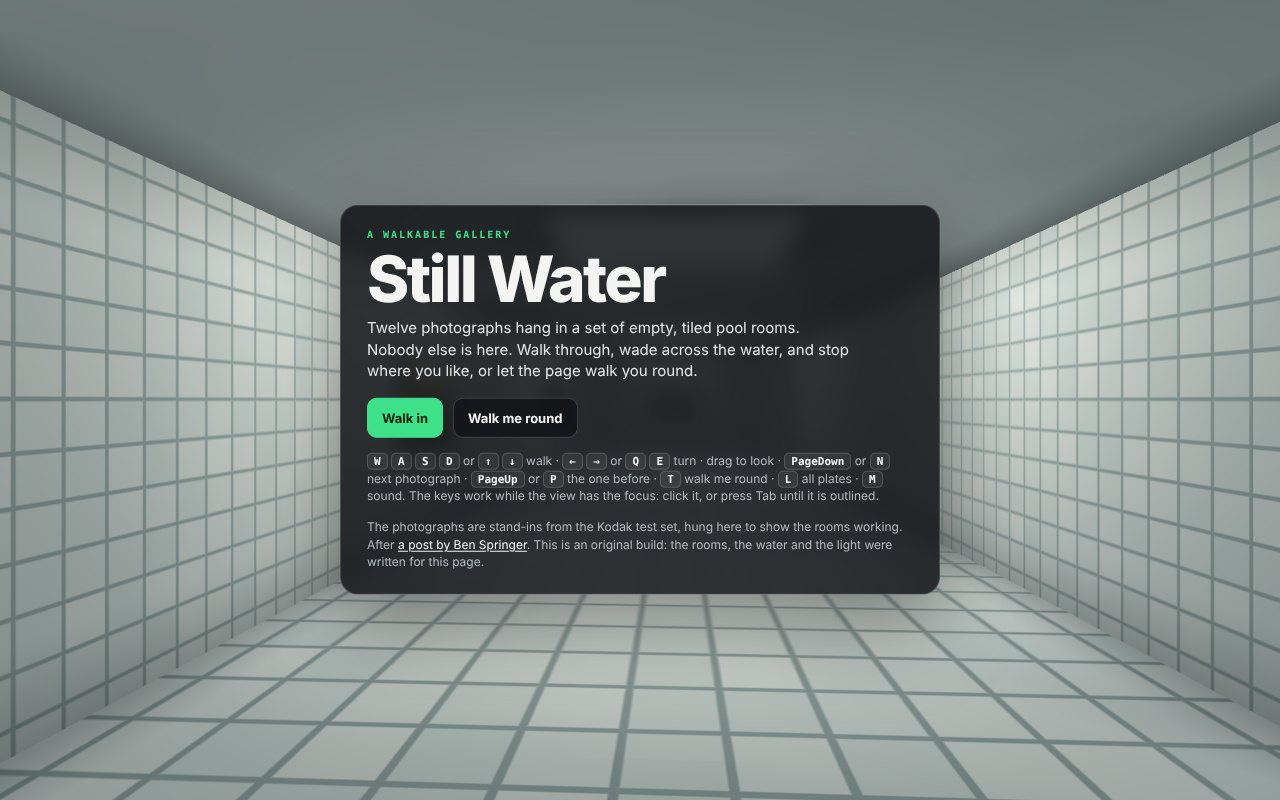
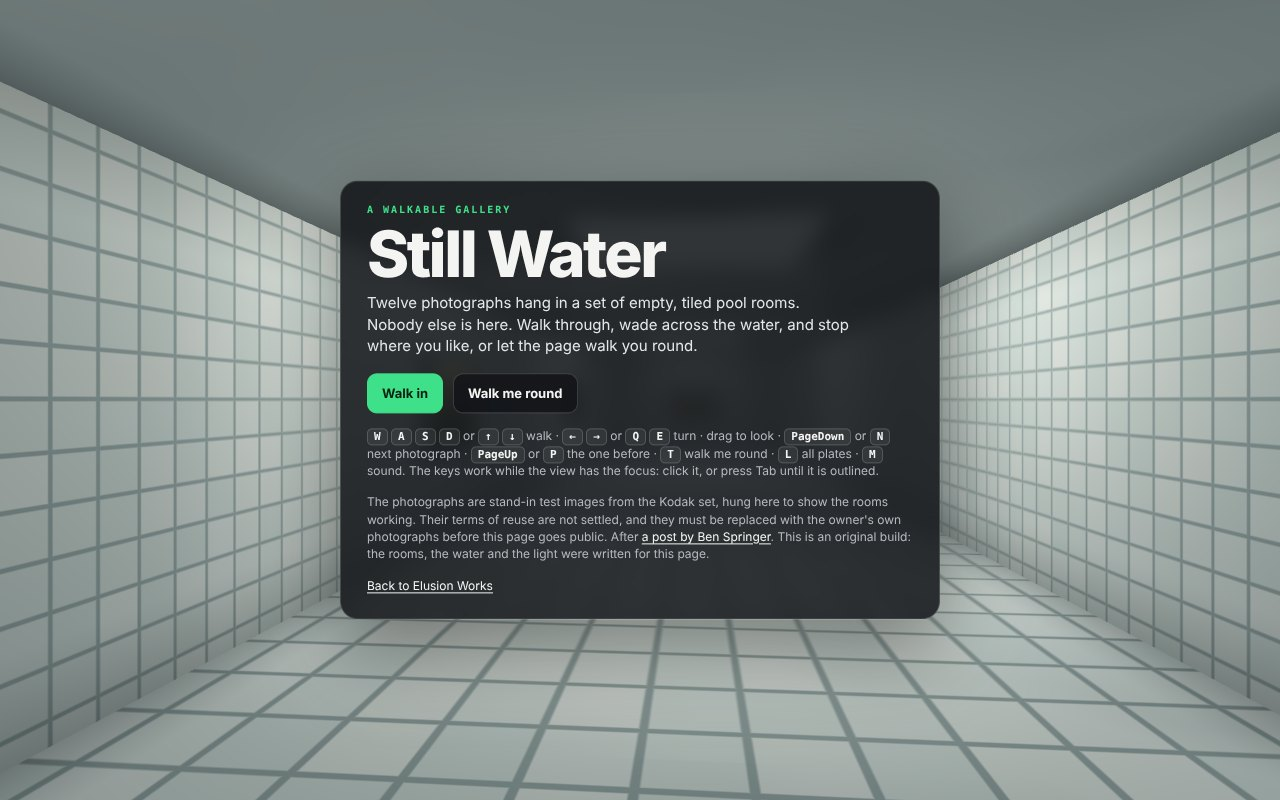
Still Water: act on the outside review
- Plain gallery in ordinary HTML (twelve photographs, full captions,
  link back to the site) when WebGL fails, the app script or Three.js
  fails to load, or scripts are off. Tested in all four cases.
- The walk round and gliding wait while the list of plates is open.
- Water shader smoothstep edges put in order (undefined in GLSL);
  grout smoothstep guarded against equal edges.
- Return link on the start card and in the list; the list repeats how
  to move; sharing tags added, noindex kept.
- The photographs are called stand-in test images whose reuse terms are
  unsettled and which must be replaced before merge, on the page and in
  the files. Permission is left for the owner to decide.
- Tests: plain gallery matches photos.js, rights wording, smoothstep
  edges, tour behind the list, photograph corners on screen.

Claude-Session: https://claude.ai/code/session_013B6jEDQfd86RBiChYmYX6U

Changed region(s): [[0.0, 0.0938, 1.0, 1.0]]

diff --git a/demos/still-water/index.html b/demos/still-water/index.html
@@ -6,6 +6,12 @@
 <title>Still Water: a walkable gallery in empty pool rooms</title>
 <meta name="description" content="Twelve photographs hang in a set of quiet, tiled pool rooms. Walk through them in your browser, wade across the water, or let the page walk you round.">
 <meta name="theme-color" content="#111315">
+<meta property="og:title" content="Still Water: a walkable gallery in empty pool rooms">
+<meta property="og:description" content="Twelve photographs hang in a set of quiet, tiled pool rooms. Walk through them in your browser, wade across the water, or let the page walk you round.">
+<meta property="og:type" content="website">
+<meta property="og:image" content="https://elusionworks.com/demos/still-water/thumbnail.png">
+<meta property="og:image:alt" content="A pool hall with white tiled walls, a pillar standing in pale blue water and two framed photographs on the far walls.">
+<meta name="twitter:card" content="summary_large_image">
 <link rel="icon" href="../../assets/favicon.svg" type="image/svg+xml">
 <!-- Unlisted until release is approved: remove the next line, then add the gallery card and sitemap entry. -->
 <meta name="robots" content="noindex">
@@ -56,6 +62,7 @@
   .keys kbd { font:600 11px var(--mono); padding:1px 6px; border-radius:5px; border:1px solid var(--line); background:rgba(255,255,255,.06); color:var(--ink); }
   dialog { color:var(--ink); border:1px solid var(--line); border-radius:18px; padding:20px 22px; width:min(94vw,760px); max-height:min(90vh,680px); background:#15181b; }
   dialog::backdrop { background:rgba(8,10,12,.6); }
+  dialog h3 { margin:20px 0 0; font-size:15px; } dialog .note b { color:var(--ink); }
   .dialog-head { display:flex; align-items:center; justify-content:space-between; gap:12px; margin-bottom:12px; } .dialog-head h2 { margin:0; }
   #plates { list-style:none; margin:0; padding:0; display:grid; grid-template-columns:repeat(auto-fill,minmax(150px,1fr)); gap:10px; }
   #plates button { display:block; width:100%; padding:0; border-radius:10px; border:1px solid var(--line); background:#0c0e10; overflow:hidden; text-align:left; }
@@ -64,7 +71,17 @@
   #plates small { display:block; padding:4px 9px 9px; font-size:12px; line-height:1.3; color:#d7dce0; white-space:normal; }
   #plates .lost { display:grid; place-items:center; height:104px; padding:8px; font-size:12px; text-align:center; color:var(--muted); background:#22262a; }
   #plates button[aria-current="true"] { border-color:var(--accent); } #plates button[aria-current="true"] span { color:var(--accent); }
-  #fallback { position:fixed; inset:0; display:none; place-items:center; padding:28px; text-align:center; background:var(--bg); z-index:9; } #fallback p { max-width:460px; color:#d7dce0; }
+  /* The plain gallery, for when the rooms cannot start */
+  #fallback { display:none; max-width:960px; margin:0 auto; padding:28px max(16px,env(safe-area-inset-left)) 40px; }
+  .flat, .flat body { height:auto; overflow:auto; }
+  .flat #fallback { display:block; }
+  .flat #stage, .flat .hud, .flat #start, .flat #all { display:none !important; }
+  #fallback a { color:var(--ink); text-decoration:underline; text-underline-offset:2px; }
+  #fallback .eyebrow a { color:var(--accent); text-decoration:none; } #fallback .eyebrow a:hover { text-decoration:underline; }
+  #flat { list-style:none; margin:22px 0 0; padding:0; display:grid; grid-template-columns:repeat(auto-fill,minmax(min(100%,280px),1fr)); gap:22px; }
+  #flat figure { margin:0; }
+  #flat img { display:block; max-width:100%; height:auto; max-height:70vh; background:#22262a; border:1px solid var(--line); }
+  #flat figcaption { margin-top:8px; font-size:14px; color:#d7dce0; } #flat figcaption b { display:block; margin-bottom:2px; font:600 10px/1.4 var(--mono); letter-spacing:.18em; text-transform:uppercase; color:var(--accent); }
 
   @media (max-width:760px) {
     #map { width:104px; } .toolrow { max-width:150px; } .toolrow .btn { min-height:34px; padding:0 9px; }
@@ -74,6 +91,8 @@
   @media (max-height:480px) { .card { padding:14px 18px; } h1 { font-size:32px; margin:6px 0; } .lede { margin-bottom:10px; font-size:13px; } .card .note { display:none; } #plate { width:min(360px,56vw); } #plate-t { min-height:0; margin:5px 0 7px; font-size:12px; white-space:nowrap; overflow:hidden; text-overflow:ellipsis; } #map { width:92px; } }
   @media (prefers-reduced-motion:reduce) { * { transition:none !important; } }
 </style>
+<!-- With scripts off the rooms cannot open: show the plain gallery. After the main styles so that it wins. -->
+<noscript><style>html, body { height:auto; overflow:auto; } #fallback { display:block; } #stage, .hud, #start, #all { display:none !important; }</style></noscript>
 <script type="importmap">
 { "imports": { "three": "../_shared/three-r160/build/three.module.js" } }
 </script>
@@ -114,15 +133,49 @@
   </div>
   <p class="note keys"><kbd>W</kbd> <kbd>A</kbd> <kbd>S</kbd> <kbd>D</kbd> or <kbd>↑</kbd> <kbd>↓</kbd> walk · <kbd>←</kbd> <kbd>→</kbd> or <kbd>Q</kbd> <kbd>E</kbd> turn · drag to look · <kbd>PageDown</kbd> or <kbd>N</kbd> next photograph · <kbd>PageUp</kbd> or <kbd>P</kbd> the one before · <kbd>T</kbd> walk me round · <kbd>L</kbd> all plates · <kbd>M</kbd> sound. The keys work while the view has the focus: click it, or press Tab until it is outlined.</p>
   <p class="note" id="touch-note" hidden>Drag on the left of the screen to walk. Drag on the right to look round.</p>
-  <p class="note">The photographs are stand-ins from the Kodak test set, hung here to show the rooms working. After <a href="https://x.com/Ben__Springer/status/2119915615351693483" rel="noopener">a post by Ben Springer</a>. This is an original build: the rooms, the water and the light were written for this page.</p>
+  <p class="note">The photographs are stand-in test images from the Kodak set, hung here to show the rooms working. Their terms of reuse are not settled, and they must be replaced with the owner's own photographs before this page goes public. After <a href="https://x.com/Ben__Springer/status/2119915615351693483" rel="noopener">a post by Ben Springer</a>. This is an original build: the rooms, the water and the light were written for this page.</p>
+  <p class="note"><a href="../../">Back to Elusion Works</a></p>
 </section>
 
 <dialog id="all" aria-labelledby="all-h">
   <div class="dialog-head"><h2 id="all-h">All twelve plates</h2><button class="btn" id="all-close" type="button">Close</button></div>
   <ul id="plates"></ul>
+  <h3>How to move</h3>
+  <p class="note">With the view in focus: <b>W A S D</b> or the up and down arrows walk; the left and right arrows or <b>Q</b> and <b>E</b> turn; <b>PageDown</b> or <b>N</b> goes to the next photograph and <b>PageUp</b> or <b>P</b> to the one before; <b>T</b> walks you round; <b>L</b> opens this list; <b>M</b> is sound; <b>Escape</b> stops a walk. With a mouse, drag to look. On a phone, drag on the left of the screen to walk and on the right to look round. Next, Previous and Walk me round do the same without keys.</p>
+  <p class="note">The photographs are stand-in test images whose terms of reuse are not settled. <a href="../../">Back to Elusion Works</a></p>
 </dialog>
 
-<div id="fallback" role="alert"><p><strong>This gallery needs WebGL.</strong><br>Your browser or device could not start 3D graphics. Try a recent version of Edge, Chrome, Firefox or Safari with hardware acceleration switched on.</p></div>
-<script type="module" src="js/app.js"></script>
+<!-- The plain gallery: shown instead of the rooms when 3D graphics cannot start, the script does not load, or scripts are off.
+     The words must match js/photos.js; world.test.mjs checks that they do. -->
+<main id="fallback">
+  <p class="eyebrow"><a href="../../">Elusion Works</a></p>
+  <h1 id="flat-h">Still Water</h1>
+  <p class="lede" id="fallback-why" role="status">The 3D rooms could not be opened here, so the twelve photographs are shown below as a plain list.</p>
+  <p class="note">Each photograph hangs in the rooms with a numbered plate and no title. These are stand-in test images from the Kodak set; their terms of reuse are not settled, and they must be replaced with the owner's own photographs before this page goes public.</p>
+  <ol id="flat">
+    <li><figure><img src="img/k16.jpg" alt="" loading="lazy" width="768" height="512"><figcaption><b>Plate 01</b> A low island lined with palm trees across still water, with tall white clouds above.</figcaption></figure></li>
+    <li><figure><img src="img/k06.jpg" alt="" loading="lazy" width="768" height="512"><figcaption><b>Plate 02</b> A small wooden sailing boat at anchor on calm turquoise water, a low shoreline behind it.</figcaption></figure></li>
+    <li><figure><img src="img/k11.jpg" alt="" loading="lazy" width="768" height="512"><figcaption><b>Plate 03</b> A weathered boat moored beside a rusting, broken jetty on green water.</figcaption></figure></li>
+    <li><figure><img src="img/k21.jpg" alt="" loading="lazy" width="768" height="512"><figcaption><b>Plate 04</b> A white lighthouse and red-roofed houses on a rocky shore, waves breaking below.</figcaption></figure></li>
+    <li><figure><img src="img/k19.jpg" alt="" loading="lazy" width="512" height="768"><figcaption><b>Plate 05</b> A white lighthouse behind a white picket fence, under a blue sky with white cloud.</figcaption></figure></li>
+    <li><figure><img src="img/k13.jpg" alt="" loading="lazy" width="768" height="512"><figcaption><b>Plate 06</b> A stony mountain stream running through green forest, with snow on the peaks beyond.</figcaption></figure></li>
+    <li><figure><img src="img/k09.jpg" alt="" loading="lazy" width="512" height="768"><figcaption><b>Plate 07</b> Racing dinghies under striped spinnaker sails on grey water.</figcaption></figure></li>
+    <li><figure><img src="img/k22.jpg" alt="" loading="lazy" width="768" height="512"><figcaption><b>Plate 08</b> A red barn reflected in a pond, among trees in spring leaf.</figcaption></figure></li>
+    <li><figure><img src="img/k23.jpg" alt="" loading="lazy" width="768" height="512"><figcaption><b>Plate 09</b> Two macaws side by side, one blue and yellow, one red, against green leaves.</figcaption></figure></li>
+    <li><figure><img src="img/k07.jpg" alt="" loading="lazy" width="768" height="512"><figcaption><b>Plate 10</b> An arched, shuttered window in a pale wall, with pink and red hibiscus flowers in front.</figcaption></figure></li>
+    <li><figure><img src="img/k02.jpg" alt="" loading="lazy" width="768" height="512"><figcaption><b>Plate 11</b> A close view of a red painted door with an iron bolt and a round white knob.</figcaption></figure></li>
+    <li><figure><img src="img/k01.jpg" alt="" loading="lazy" width="768" height="512"><figcaption><b>Plate 12</b> The front of a stone building with red shutters and a red door.</figcaption></figure></li>
+  </ol>
+  <p class="note"><a href="../../">Back to Elusion Works</a></p>
+</main>
+<script>
+// If the rooms never start (the script failed to load, or stopped part way), show the plain gallery instead of a dead start card.
+(function () {
+  function flat(why) { var d = document.documentElement; if (window.stillWater || d.classList.contains('flat')) return; d.classList.add('flat'); if (why) document.getElementById('fallback-why').textContent = why; }
+  window.stillWaterFlat = flat;
+  addEventListener('load', function () { flat('The script that draws the rooms did not load, so the twelve photographs are shown below as a plain list.'); });
+})();
+</script>
+<script type="module" src="js/app.js" onerror="stillWaterFlat('The script that draws the rooms did not load, so the twelve photographs are shown below as a plain list.')"></script>
 </body>
 </html>

diff --git a/demos/still-water/js/app.js b/demos/still-water/js/app.js
@@ -14,7 +14,7 @@ const HAZE = [0.83, 0.91, 0.91]; // the pale air the far rooms fade into
 
 let renderer;
 try { renderer = new THREE.WebGLRenderer({ canvas: $('stage'), antialias: true, powerPreference: 'high-performance' }); }
-catch (err) { $('fallback').style.display = 'grid'; $('start').hidden = true; throw err; }
+catch (err) { window.stillWaterFlat('This browser could not start 3D graphics (WebGL), so the twelve photographs are shown below as a plain list. To walk the rooms, try a recent Edge, Chrome, Firefox or Safari with hardware acceleration switched on.'); throw err; } // the plain gallery in index.html takes over
 renderer.setPixelRatio(Math.min(devicePixelRatio || 1, small ? 1.5 : 2));
 const scene = new THREE.Scene(); scene.background = new THREE.Color().setRGB(HAZE[0], HAZE[1], HAZE[2], THREE.SRGBColorSpace);
 const camera = new THREE.PerspectiveCamera(62, 1, 0.08, 120); camera.rotation.order = 'YXZ';
@@ -41,7 +41,7 @@ const CAUSTIC = /* glsl */`
         else {
           vec3 base = vec3(0.90, 0.93, 0.92); float gloss = 0.0;
           if (vKind < 2.5) { float size = vKind > 1.5 ? 0.125 : (vKind > 0.5 ? 0.5 : 0.25); vec2 t = uv / size + 0.5, cell = abs(fract(t) - 0.5); // pool mosaic, floor slabs, wall tiles
-            float aa = max(fwidth(t.x), fwidth(t.y)), line = smoothstep(0.455 - aa, 0.455 + aa, max(cell.x, cell.y)) * clamp(1.0 - aa * 1.5, 0.0, 1.0); // grout, fading out where tiles are too small to see
+            float aa = max(max(fwidth(t.x), fwidth(t.y)), 1e-4), line = smoothstep(0.455 - aa, 0.455 + aa, max(cell.x, cell.y)) * clamp(1.0 - aa * 1.5, 0.0, 1.0); // grout, fading out where tiles are too small to see
             float v = hash(floor(t));
             vec3 tile = vKind > 1.5 ? mix(vec3(0.40, 0.76, 0.79), vec3(0.56, 0.87, 0.87), v) : mix(vec3(0.90, 0.94, 0.93), vec3(0.97, 0.98, 0.97), v);
             vec3 grout = vKind > 1.5 ? vec3(0.28, 0.58, 0.63) : vec3(0.66, 0.73, 0.73);
@@ -69,7 +69,7 @@ const CAUSTIC = /* glsl */`
         vec2 p = vW.xz; float e = 0.05; vec3 n = normalize(vec3(height(p - vec2(e, 0.0)) - height(p + vec2(e, 0.0)), 2.0 * e, height(p - vec2(0.0, e)) - height(p + vec2(0.0, e))));
         vec3 toEye = cameraPosition - vW; float dist = length(toEye); vec3 V = toEye / dist, R = reflect(-V, n);
         float F = 0.03 + 0.97 * pow(1.0 - max(dot(n, V), 0.0), 5.0), glow = 0.0;
-        for (int i = 0; i < 12; i++) { if (i >= uSkyN) break; float t = (uSky[i].y - vW.y) / max(R.y, 0.05); vec2 hit = vW.xz + R.xz * t; vec2 d = abs(hit - uSky[i].xz); glow += smoothstep(1.25, 0.85, max(d.x, d.y)); } // the skylights, mirrored
+        for (int i = 0; i < 12; i++) { if (i >= uSkyN) break; float t = (uSky[i].y - vW.y) / max(R.y, 0.05); vec2 hit = vW.xz + R.xz * t; vec2 d = abs(hit - uSky[i].xz); glow += 1.0 - smoothstep(0.85, 1.25, max(d.x, d.y)); } // the skylights, mirrored
         vec3 mirror = mix(vec3(0.70, 0.82, 0.82), vec3(1.0, 0.99, 0.95), clamp(glow, 0.0, 1.0)), deep = vec3(0.13, 0.50, 0.55);
         vec3 col = mix(deep, mirror, F); float alpha = mix(0.38, 0.97, F);
         col = mix(col, uHaze, 1.0 - exp(-dist * dist * 0.0009));
@@ -130,6 +130,7 @@ function input() { const k = c => (keys.has(c) ? 1 : 0); return { forward: k('Ke
 function advance(dt) {
   if (!still) uTime.value += dt;
   if (mode !== 'walk') return;
+  if ($('all').open) { audio.move(0, me.wade, dt); return; } // behind the list of plates nothing moves: no walking, no gliding, and the walk round waits
   const inp = input(), hands = inp.forward || inp.strafe || inp.turn || look.id !== null, x0 = me.x, z0 = me.z;
   if (hands && (path || touring)) { path = null; if (touring) setTour(false); } // touch the controls and you are walking yourself again
   if (path) { if (follow(world, me, path, pathYaw, dt)) arrive(); } else walk(world, me, inp, dt);
@@ -206,5 +207,9 @@ window.stillWater = { // for the automated checks
   ready: ready.then(() => true),
   state: () => ({ mode, x: me.x, z: me.z, y: me.y, yaw: me.yaw, pitch: me.pitch, wade: me.wade, plate: shown ? shown.plate : 0, words: document.getElementById('plate-t').textContent, said: document.getElementById('announce').textContent, target, gliding: !!path, touring, stops, still, soundOn, time: uTime.value, loaded: loaded.ok, failed: loaded.failed, clear: clear(world, me.x, me.z), calls: renderer.info.render.calls, triangles: renderer.info.render.triangles, fov: camera.fov }),
   plates: () => hung.map(p => ({ plate: p.plate, x: p.x, z: p.z, w: p.w, h: p.h, alt: p.alt, view: viewPoint(world, world.photos[p.plate - 1], viewDist(p)) })),
+  // Where the corners of a photograph fall on the screen, in CSS pixels, seen from where you stand.
+  corners(i) { const p = hung[i], rx = p.nz, rz = -p.nx, cx = p.x + p.nx * 0.06, cz = p.z + p.nz * 0.06; camera.position.set(me.x, me.y, me.z); camera.rotation.set(me.pitch, me.yaw, 0); camera.updateMatrixWorld();
+    const pts = [[-1, -1], [1, -1], [1, 1], [-1, 1]].map(([a, b]) => { probe.set(cx + rx * a * p.w / 2, p.y + b * p.h / 2, cz + rz * a * p.w / 2).project(camera); return [(probe.x + 1) / 2 * innerWidth, (1 - probe.y) / 2 * innerHeight, probe.z]; });
+    return { left: Math.min(...pts.map(q => q[0])), right: Math.max(...pts.map(q => q[0])), top: Math.min(...pts.map(q => q[1])), bottom: Math.max(...pts.map(q => q[1])), ahead: pts.every(q => q[2] < 1) }; },
   enter, goTo, place(x, z, yaw, pitch = 0) { stand({ x, z, yaw }); me.pitch = pitch; }, fast(n) { for (let i = 0; i < n; i++) advance(1 / 60); draw(); return n; },
 };

diff --git a/demos/still-water/js/photos.js b/demos/still-water/js/photos.js
@@ -1,4 +1,6 @@
-// The photographs on the walls, in the order of the walk round. To hang your own, replace the files in img/ and the words here.
+// The photographs on the walls, in the order of the walk round. To hang your own, replace the files in img/ and the words here,
+// and the same words in the plain gallery at the foot of index.html (world.test.mjs fails until the two agree).
+// These twelve are stand-in Kodak test images whose terms of reuse are not settled: they must be replaced before the page goes public.
 // Each has a plain description for anyone who cannot see it. No titles: the plates carry numbers only.
 export const PHOTOS = [
   { file: 'img/k16.jpg', alt: 'A low island lined with palm trees across still water, with tall white clouds above.' },

diff --git a/demos/still-water/REVIEW.md b/demos/still-water/REVIEW.md
@@ -5,7 +5,7 @@ Built 17 November 2026 by Claude Fable 5.2 in a Claude Code cloud session. Revie
 
 ## Verdict
 
-Ready for Kol to walk round. Not published, not in the gallery, not in the sitemap.
+Ready for Kol to walk round. Not published, not in the gallery, not in the sitemap. **Not to be merged while the stand-in photographs are on it** (see the README): their terms of reuse are not settled.
 
 **Quality bar it sets:** a first-person 3D place that anyone can get round (walking, Next, a guided walk, or a list), where the panel only ever says what is true, and where the rules for walking are tested without a screen.
 
@@ -22,22 +22,26 @@ Ready for Kol to walk round. Not published, not in the gallery, not in the sitem
 
 Verified by running, in Node and in headless Chromium 153.
 
+Re-run after the outside review below, on the final code, the same day.
+
 - `node demos/still-water/tools/world.test.mjs`: pass.
   - The plan: closed at the edges, all 274 open squares reachable, twelve photographs each facing a room and viewable from 0.5 to 5 m.
   - Walking: 160,000 random steps (including absurd time gaps) never end in a wall or pillar, the eye never jumps, and nonsense numbers are refused.
   - Pool floors shelve with no step anywhere (sampled every 5 cm); the drawn floor matches the walked floor to within 4 cm.
   - Routes: from every plate to the next, and from 48 spots hard against the pillars, the walk never passes through anything and ends square on.
   - Geometry: every triangle is wound to its normal and faces open air; light values in range; water over every pool square.
+  - The plain gallery in `index.html` lists the same twelve files and descriptions as `js/photos.js`, in order, with a link back to the site; every shader `smoothstep` with number edges runs low to high; no file calls the photographs public domain, and the page says they are unsettled stand-ins.
 - `node demos/still-water/tools/smoke.mjs <axe.min.js>`: pass.
   - The way in: twelve photographs loaded, the view really drawn (colour count), Tab reaches visible controls, a visible focus outline on the view.
   - Keyboard walking and turning, a wall that stops you, drag to look, water that can be stilled.
-  - PageDown to all twelve plates in order, each time square on, with the right words, announced once; "On the way to plate" while walking.
+  - PageDown to all twelve plates in order, each time square on, with the right words, announced once; "On the way to plate" while walking. At 1280 by 800 all four corners of each photograph are on the screen and clear of every control.
   - The panel's truth: turn until the photograph is off screen, or look at the floor, and the panel stops naming it.
   - The list: opens, traps nothing behind it, shows each description, takes you there; focus goes where it should for mouse and for keyboard.
-  - The walk round: all twelve stops from the start; all twelve when started at plate 7 (8 first, 7 last); Escape or the button stops you where you are.
+  - The walk round: all twelve stops from the start; all twelve when started at plate 7 (8 first, 7 last); Escape or the button stops you where you are. With the list open it waits (no movement, no next stop, the list marks the plate you are at) and carries on when the list shuts.
   - Reduced motion: cuts instead of glides, still water, and the walk round still waits six seconds at each of the twelve.
   - A photograph that fails to load is called missing in the panel and in the list.
-  - Phones at 400 by 800, 320 by 568 and 740 by 360: the stick walks, the right side looks, the description is on screen, nothing off screen or overlapping.
+  - When the rooms cannot start (WebGL refused, the app script blocked, Three.js blocked, or scripts off), at 1280 and 320 wide: the twelve photographs load and show with their full captions as an ordinary page, with a link back to the site and the reason given; the start card and its buttons are gone; no sideways scroll; axe clean (axe not run with scripts off, where it cannot run).
+  - Phones at 400 by 800, 320 by 568 and 740 by 360: the stick walks, the right side looks, the description is on screen, nothing off screen or overlapping. At plates 1, 5 and 8 all four corners of the photograph are on the screen at all three sizes, and clear of the controls at 400 by 800 (not at the other two: see Known limits).
   - axe-core 4.14.0, WCAG 2.2 A and AA: 0 violations on the way in, walking and the list, at four sizes.
   - Zero console errors, warnings or failed requests; no request leaves the page.
 - The repo's own overflow rule and axe at 320, 390 and 1280 px: clean.
@@ -50,14 +54,18 @@ Verified by running, in Node and in headless Chromium 153.
 - **Sound.** Synthesised and never listened to. It is off until asked for.
 - **A real screen reader.** Announcements were checked as text in the page, not heard through NVDA or VoiceOver.
 - **Safari and Firefox.** Only Chromium was run.
-- **The photographs' licence** rests on the Kodak archive's own statement of unrestricted use. They are stand-ins. See the README.
+- **The photographs' permission.** Not established. They are stand-in Kodak test images; an archive page says they were released for unrestricted usage, an outside reviewer reports that Kodak's own document speaks of a grant to sampler-disc holders and of crediting photographers, and the repo holds no licence or credits. They must be replaced with Kol's own photographs before this is merged. See the README.
+- **The plain gallery in other browsers.** Tested in Chromium only, with WebGL refused by a script and with files blocked; not on a real machine without 3D graphics.
+- **The water shader fix on real graphics hardware.** The edges of one `smoothstep` were the wrong way round (undefined in GLSL). Swapped; in software rendering the picture is identical to the last pixel in three views, two of which show the mirrored skylights. Real GPUs not checked.
 - **Kol's Taste Lab rating.**
 
 ## Known limits
 
 - The light is worked out once when the page opens. Nothing casts a moving shadow.
 - The water mirrors the skylights only, not the rooms.
-- Photographs do not fade into the haze at a distance as the walls do.
+- Photographs do not fade into the haze at a distance as the walls do, and are not lit by the room.
+- Stood square in front of a photograph on small screens, the controls cover a sliver of it: at 320 by 568 the corner of the "Still the water" button covers about 21 by 18 px of the frame's top right (34 px tall for the two upright pictures); at 740 by 360 the panel covers the bottom 13 to 15 px. Measured by projecting the corners, not seen by a person. Standing further back would clear it but makes the picture about a third smaller on a 320 px phone; that is Kol's call.
+- The sharing image (`thumbnail.png`) shows two of the stand-in photographs and the green focus outline round the view. It must be re-taken once the photographs are replaced.
 - One floor: no stairs, no second level.
 
 ## Independent review
@@ -87,6 +95,23 @@ The reviewer also showed that five of my checks proved less than they claimed (t
 It confirmed as sound: walking and pillar-hugging under fuzzing; routes from anywhere; no triangle facing into a wall; water only over pools; no flicker between frame, mount and picture; the list dialog's focus handling; three fingers at once and a cancelled touch; rapid presses of everything; odd window shapes; forty quick sound toggles; a hidden tab; no outside requests. Eleven of the twelve descriptions matched their pictures.
 
 Found by my own checks on the way: light burning out to white near the skylights; the eye jolting on a slow frame; a step in the pool floor at inside corners; a viewing distance that put the frame behind the panel.
+
+## Outside review
+
+Reviewed by ChatGPT in chat mode at Pro, driven by another Claude session at the owner's request, on 17 November 2026. It read the code and the pictures and did not run the page. Score 6/10, verdict HOLD. Each finding was checked by running the page or reading the code, then fixed where it could be fixed and checked here.
+
+| Finding | What was done | Held by |
+|---|---|---|
+| The photographs are stand-ins and their permission is not established: the README leans on an archive's statement of unrestricted use, while Kodak's own document (as the reviewer reports it) speaks of a grant to sampler-disc holders and of crediting photographers | True that permission is not established: the repo holds no licence, grant or credits. Whether the images may be used cannot be settled here, and the photographs were not replaced (Kol's own are not available to this session). The README, this file, the page's start card, the list and the plain gallery now say plainly that these are stand-in test images whose terms of reuse are not settled and that they must be replaced before the page is merged or made public. Nothing claims they are public domain or free to reuse. **Needs Kol's decision.** | `world.test.mjs` (no "public domain"; the page carries the stand-in wording) |
+| With WebGL unavailable the page threw before the list was built and showed only "try another browser"; with the script failing to load the entry buttons did nothing | True: reproduced both (WebGL refused: no list, no images; app script blocked: start card stayed, Walk in did nothing). Added a plain gallery in ordinary HTML: all twelve photographs with their full descriptions, a link back to Elusion Works and the reason. It shows when WebGL fails, when the app script or Three.js fails to load, and with scripts off | `smoke.mjs` section 5c (four failure cases at two widths); `world.test.mjs` (gallery matches `photos.js`) |
+| Nobody has walked it by hand, measured a real device's frame rate, loaded it cold on a 4G phone or heard the sound; the capture scripts force software rendering; keyboard, touch, 200% zoom and screen-reader checks by a person are missing | True. Not done: none of it can be done on this machine. The capture scripts do force software rendering (`--use-angle=swiftshader`), so no frame rate here says anything about real devices | Not verified, above |
+| The new movement and browser suites are not run by CI | True: no workflow mentions this demo. Not done: workflows are outside this demo's folder | None |
+| The "whole photograph" check only compared the plate number | True. The check now projects the photograph's four corners: fully on screen at every size tested, and clear of every control at 1280 by 800 and 400 by 800. Doing so found that at 320 by 568 and 740 by 360 a control covers a sliver of the frame; recorded under Known limits, not fixed (a trade-off for Kol) | `smoke.mjs` sections 3 and 6 |
+| Merging publishes a reachable page: `noindex` keeps it out of the sitemap, not off the site | True: `pages.yml` deploys `main` and `build-site.py` copies every demo. The README's Status now says so plainly | README |
+| The water shader's `smoothstep(1.25, 0.85, ...)` has undefined results in GLSL | True by the GLSL specification (edge0 must be below edge1); no visible fault was seen here. Changed to `1.0 - smoothstep(0.85, 1.25, ...)`. In software rendering the picture is unchanged to the pixel in three views. Also guarded the tile grout's `smoothstep`, whose two edges would meet if the screen-space change were ever zero | `world.test.mjs` (smoothstep edges); pixel comparison run once, not kept as a test |
+| The walk round keeps moving while "All plates" is open, so the marked plate goes stale | True: reproduced (moved from plate 1 to plate 2 behind the open list, which still marked plate 1). Now nothing moves behind the list and the walk round waits; it carries on when the list shuts | `smoke.mjs` section 4 |
+| No link back to the site, no way to see the instructions again, no sharing image | True. Added "Back to Elusion Works" on the start card, in the list and in the plain gallery; the list now repeats how to move; added sharing tags (title, description, image, image description), keeping `noindex`. The sharing image shows stand-ins and must be re-taken after the photographs are replaced | `world.test.mjs` (link in the plain gallery); `smoke.mjs` (axe and layout with the new list text) |
+| Suggestions: a curated series, distinct lighting per room, water that reflects the architecture, photographs lit by the room, spatial sound | True that the water mirrors only the skylights and the photographs are unlit (already under Known limits). Not done: a visual and sound redesign is outside this pass | None |
 
 ## Provenance
 

diff --git a/demos/still-water/README.md b/demos/still-water/README.md
@@ -13,7 +13,8 @@ Use it as the reference for walkable 3D spaces and for hanging pictures in them.
 - Pools shelve down from the dry floor, so you wade in. Water slows you and ripples round you.
 - **Next** and **Previous** walk you to each photograph and stand you square in front of it, far enough back to see all of it on your screen.
 - **Walk me round** visits all twelve in order and stops. Touch any control and you are walking yourself again.
-- **All plates** is a plain list with thumbnails and descriptions, for anyone who would sooner choose than walk.
+- **All plates** is a plain list with thumbnails and descriptions, for anyone who would sooner choose than walk. It also repeats how to move and links back to the site.
+- If the 3D rooms cannot start (no WebGL, the script fails to load, or scripts are off), the page shows the twelve photographs and their descriptions as an ordinary web page instead, with a link back to the site.
 - A plan in the corner shows the rooms, the pools, the photographs and you.
 - The panel names a photograph only when it is really on your screen, and says so plainly if a picture failed to load.
 - Sound (off until you ask): the hush of a tiled room, a drip now and then, your steps, the water round your legs.
@@ -32,7 +33,7 @@ To change the rooms, edit the `PLAN` in `world.js`: `#` wall, `.` floor, `~` poo
 
 ## To hang Kol's own photographs
 
-Replace the files in `img/` and the descriptions in `js/photos.js`. Landscape pictures hang 1.5 m wide, portrait ones (marked `portrait: true`) 0.95 m wide. Nothing else needs to change.
+Replace the files in `img/` and the descriptions in `js/photos.js`, and copy the same file names and descriptions into the plain gallery (`<ol id="flat">`) at the foot of `index.html`; `world.test.mjs` fails until the two agree. Landscape pictures hang 1.5 m wide, portrait ones (marked `portrait: true`) 0.95 m wide. Then re-take the pictures in this folder with `tools/shots.mjs`, because the sharing image (`thumbnail.png`) shows two of the stand-ins on the walls.
 
 ## Checks
 
@@ -48,7 +49,15 @@ The first checks the plan, the walking rules and the geometry in Node. The secon
 
 ## The photographs
 
-The twelve photographs are stand-ins: images 1, 2, 6, 7, 9, 11, 13, 16, 19, 21, 22 and 23 of the Kodak Lossless True Color Image Suite, chosen because none shows a person close up. The suite's archive page (r0k.us/graphics/kodak) says the images were released by the Eastman Kodak Company for unrestricted usage; these copies came from a public GitHub mirror whose README repeats that. **Caveat:** that statement is the only licence evidence checked. They are here to show the hanging and are meant to be replaced.
+**These are stand-in test images, their terms of reuse are not settled, and they must be replaced with Kol's own photographs before this page is merged or made public.** The page says the same on its start card, in the list of plates and in the plain gallery.
+
+They are images 1, 2, 6, 7, 9, 11, 13, 16, 19, 21, 22 and 23 of the Kodak Lossless True Color Image Suite, chosen because none shows a person close up. What is known about permission, and no more:
+
+- An archive page for the suite (r0k.us/graphics/kodak) says the images were released by the Eastman Kodak Company for unrestricted usage. These copies came from a public GitHub mirror whose README repeats that. Neither is Kodak's own statement.
+- An outside review (17 November 2026) reports that a Kodak document published alongside the suite speaks instead of a grant to holders of Kodak's sampler disc, and of crediting the photographers with reproductions. That document was not read for this page and is not in the repo.
+- The repo holds no licence, no grant and no photographer credits for any of the twelve.
+
+So nothing here should be read as saying the images are public domain or free to reuse. Which terms apply is a question for Kol, not something the code can settle.
 
 ## Credit
 
@@ -56,4 +65,4 @@ The idea follows a post by Ben Springer showing a walkable "poolrooms" gallery (
 
 ## Status
 
-Not published. The page carries `noindex`, is not in the demo gallery and is not in the sitemap. See `REVIEW.md` for what was checked and what was not.
+Draft, and unlisted. The page carries `noindex`, is not in the demo gallery and is not in the sitemap. Unlisted does not mean private: the site deploys whatever is merged, so merging this would put the page on the live site at its own address (/demos/still-water/), unlisted but reachable by anyone with the link. It must not be merged while the stand-in photographs are on it. See `REVIEW.md` for what was checked and what was not.
